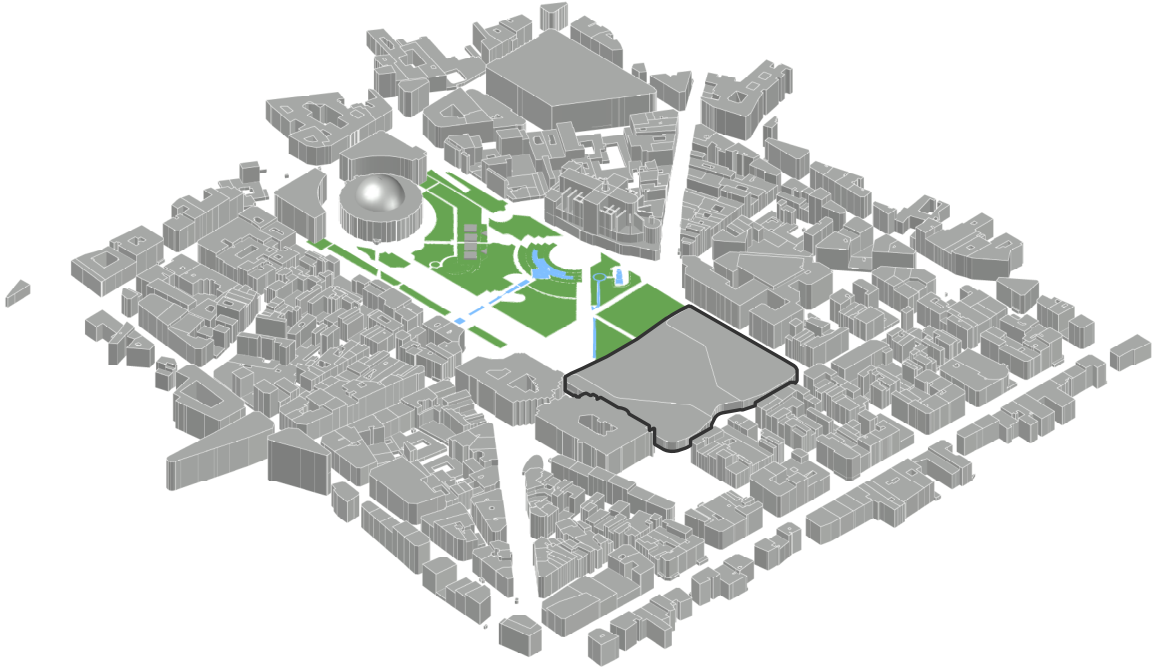
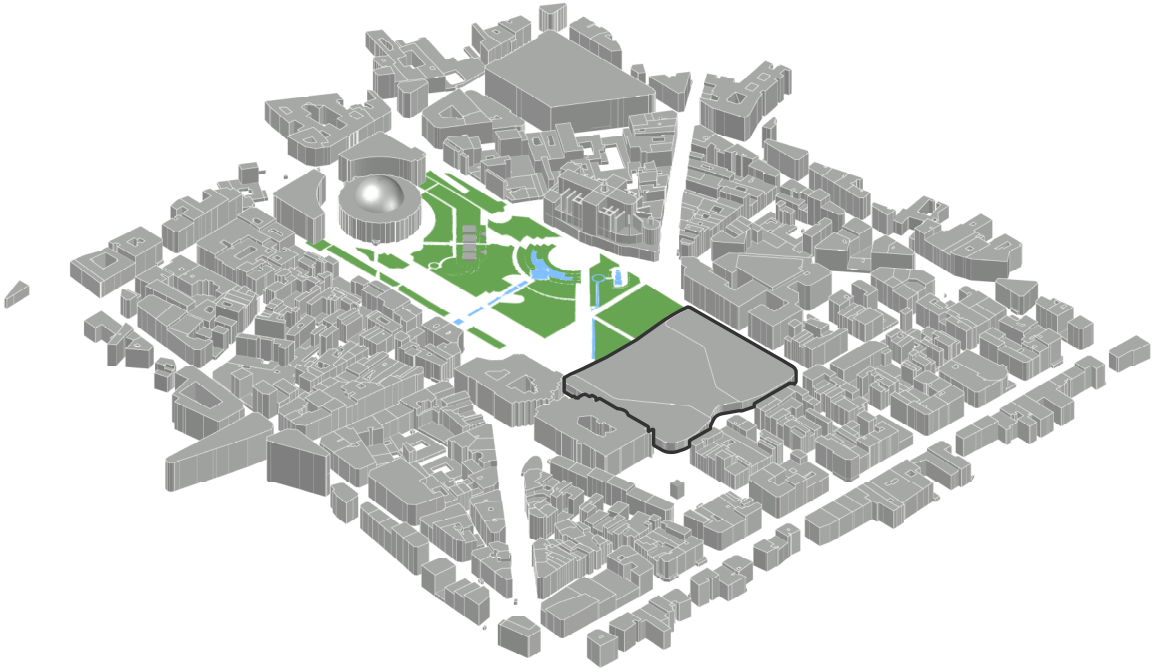
Update timeline texts and years

diff --git a/components/sections/architectural-timeline-section.tsx b/components/sections/architectural-timeline-section.tsx
@@ -13,60 +13,60 @@ interface TimelineState {
 
 const timelineStates: TimelineState[] = [
   {
-    year: 1900,
+    year: 1850,
     image: "/axonometrias/axonometria0.png",
-    caption: "The Industrial Dawn",
+    caption: "Before Baltard",
     description:
-      "Low-rise brick buildings define the urban landscape. Horse-drawn carriages navigate cobblestone streets beneath gas lamps. The city breathes with craft workshops and local commerce.",
+      "Les Halles were still a chaotic cluster of small open-air markets surrounded by medieval streets. Population growth and public hygiene were major concerns. The city’s authorities began planning a complete reconstruction of the market district. Early attempts failed for financial reasons, but the idea of transforming the area into a more rational, accessible market space was already taking shape. Only minor change occurred between 1800 and 1850, with no money to expropriate the inhabitants of this old neighborhood.",
   },
   {
-    year: 1930,
+    year: 1855,
     image: "/axonometrias/axonometria 1.png",
-    caption: "Art Deco Ascendance",
+    caption: "The Haussmannian transformation",
     description:
-      "Geometric facades rise skyward as Art Deco transforms the skyline. Automobiles replace horses, and electric lights illuminate ambitious new towers of commerce and culture.",
+      "In 1851, Victor Baltard was commissioned by Napoleon III to rebuild the market. His first heavy stone pavilion was rejected, and replaced by a revolutionary system of iron and glass, inspired by Paxton’s Crystal Palace and his competitors’ projects. Twelve pavilions were constructed progressively until the end of the century and into the next, until the end of the Second World War, mainly because of chronic lacks of fund, while surrounding streets were straightened or created to integrate them within Haussmann’s new grid.",
   },
   {
-    year: 1960,
+    year: 1870,
     image: "/axonometrias/axonometria2.png",
-    caption: "Modernist Vision",
+    caption: "The 19th-century Halles",
     description:
-      "Glass and steel define the new urban ethos. Parking structures sprawl as the automobile reshapes daily life. International Style buildings proclaim progress through minimalism.",
+      "The pavilions were among the first in Paris to use both steel-framed roofs and façades. They offered light, ventilation, and easy circulation. Its design follows the function but pastiches from roman, gothic and renaissance could be seen. Writers like Émile Zola described it as “the belly of Paris,” an architectural symbol of the modern city. At that time, modernization was associated with progress, not destruction. The old fabric was replaced almost without regret; the critics were positives about the change.",
   },
   {
-    year: 1970,
+    year: 1962,
     image: "/axonometrias/axonometria4.png",
-    caption: "Urban Renewal",
+    caption: "From prosperity to obsolescence",
     description:
-      "Large-scale demolitions reshape the city center. Infrastructure projects prioritize mobility and efficiency. The tension between preservation and progress intensifies.",
+      "The Halles were designed for one million inhabitants in 1857, but by 1900 Paris already had 2.6 million. The markets became overcrowded, and hygiene standards no longer met the needs of a growing city. In 1962, the city decided to relocate all wholesale trade to Rungis, in a new large-scale logistical complex. This marked beginning of the end of Les Halles as the food centre of Paris and of an uncertain future for the neighbourhood.",
+  },
+  {
+    year: 1971,
+    image: "/axonometrias/axonometria5.png",
+    caption: "Demolition",
+    description:
+      "The relocation to Rungis was done in 1969. Despite protests from citizens, architects, and intellectuals, demolition began in 1971. Only one of the twelve pavilions (number eight) was saved and moved to Nogent-sur-Marne. The rest of the site was razed, leaving a massive empty space in the heart of the capital.",
+  },
+  {
+    year: 1975,
+    image: "/axonometrias/axonometria3.png",
+    caption: "The Void",
+    description:
+      "The destruction created, “the hole of Les Halles.” Beneath this void, the new underground train station for the RER network was being built, opening in 1977. On the surface, nothing remained. The debate over what to build next divided architects, politicians, and citizens for years.",
   },
   {
     year: 1980,
-    image: "/axonometrias/axonometria5.png",
-    caption: "Underground Networks",
-    description:
-      "Subterranean infrastructure expands beneath historic streets. Shopping centers and transit hubs create new urban layers. The city grows vertically in both directions.",
-  },
-  {
-    year: 1990,
-    image: "/axonometrias/axonometria3.png",
-    caption: "Postmodern Complexity",
-    description:
-      "Historical references return in playful forms. Mixed-use developments blur boundaries between living and working. Transit systems reconnect fragmented urban fabric.",
-  },
-  {
-    year: 2000,
     image: "/axonometrias/axonometria6.png",
-    caption: "Millennium Transformation",
+    caption: "Construction of the Forum des Halles",
     description:
-      "Digital infrastructure integrates with physical space. Public realm improvements prioritize pedestrians. Contemporary architecture dialogues with historic context.",
+      "In 1973, the project by architects Claude Vasconi and Georges Pencréac’h was selected, later completed by Paul Chemetov. The new complex buried most of its program underground: shops, cinema, and transport, while the surface was turned into a garden. The Forum des Halles became one of the most frequented spaces in Paris. Renovation and rehabilitation were done around Les Halles, leading to an unprecedented gentrification.",
   },
   {
     year: 2010,
     image: "/axonometrias/axonometria7.png",
-    caption: "Sustainable Integration",
+    caption: "The Canopée des Halles",
     description:
-      "Green spaces begin to weave into the urban fabric. Energy efficiency becomes a priority in new constructions. The city adapts to modern ecological standards.",
+      "By the early 2000s, the Forum des Halles was considered obsolete, criticized for its lack of clarity, poor lighting, and weak relationship with the city above. The garden and the underground commercial spaces no longer responded to contemporary urban expectations. In 2004, the City of Paris launched an international competition to redesign the site. The project by Patrick Berger and Jacques Anziutti was selected, proposing a large glass and steel roof called La Canopée to cover the central void of the Forum. Construction began in 2010. The Canopée was inaugurated in 2016, bringing natural light back to the underground spaces and redefining Les Halles as a central metropolitan hub rather than a market.",
   },
 ];
 
